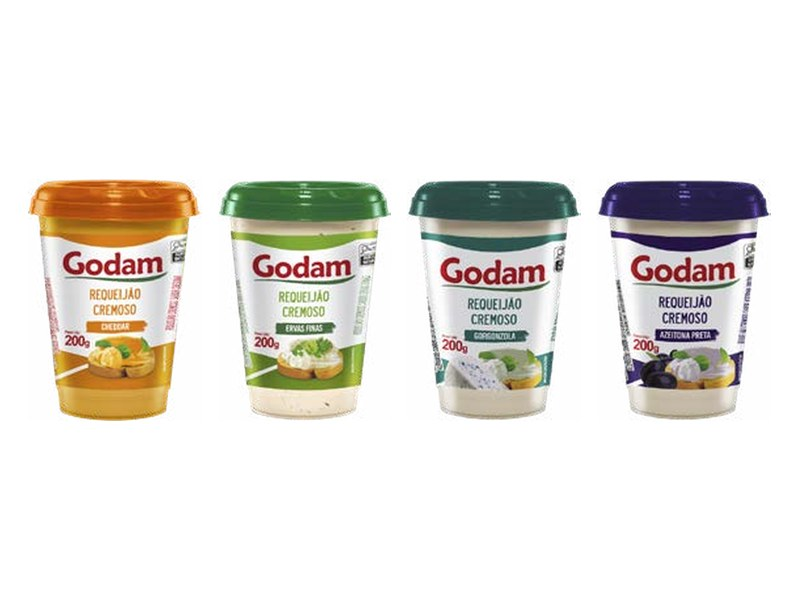
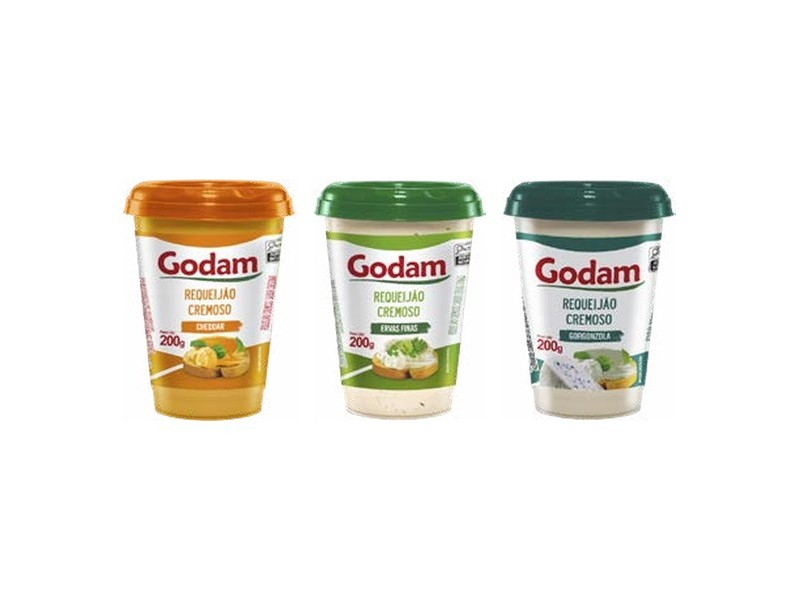
Catálogo: retira itens inativos/sem preço da tabela vigente (Req. Azeitona Preta, Minas Frescal 3 kg)
Claude-Session: https://claude.ai/code/session_01Svy9eaeNDxAC9LF54Ryx8s

Changed region(s): [[0.0312, 0.3, 0.9688, 0.72]]

diff --git a/index.html b/index.html
@@ -293,7 +293,7 @@ footer .wrap{padding-block:22px;display:flex;flex-wrap:wrap;gap:8px 24px;justify
    Enquanto a foto não existir, o cartão mostra o nome do produto no lugar. */
 const LINHAS = [
   {id:"queijos", nome:"Queijos", marca:"GODAM", itens:[
-    {n:"Queijo Minas Frescal", d:"500 g, 1 kg e 3 kg", foto:"godam-minas-frescal.jpg"},
+    {n:"Queijo Minas Frescal", d:"500 g e 1 kg", foto:"godam-minas-frescal.jpg"},
     {n:"Queijo Minas Frescal em pote", d:"500 g · tradicional, Light e Light ZEROLAC", foto:"godam-minas-frescal-pote.jpg"},
     {n:"Queijo Minas Padrão", d:"200 g, 350 g, 400 g e 450 g · também ZEROLAC Light", foto:"godam-minas-padrao.jpg"},
     {n:"Queijo Prato", d:"Peça de 400 g", foto:"godam-prato.jpg"},
@@ -303,7 +303,7 @@ const LINHAS = [
   {id:"requeijao", nome:"Requeijão", marca:"GODAM", itens:[
     {n:"Requeijão Cremoso", d:"200 g e 410 g · tradicional e Light", foto:"godam-requeijao.jpg"},
     {n:"Requeijão Cremoso ZEROLAC", d:"Light 200 g", foto:"godam-requeijao-zerolac.jpg"},
-    {n:"Requeijão com sabores", d:"Cheddar, Ervas Finas, Gorgonzola e Azeitona Preta · 200 g", foto:"godam-requeijao-sabores.jpg"},
+    {n:"Requeijão com sabores", d:"Cheddar, Ervas Finas e Gorgonzola · 200 g", foto:"godam-requeijao-sabores.jpg"},
     {n:"DICAMPI", d:"Mistura de requeijão 200 g, 410 g e 1,8 kg", foto:"dicampi.jpg"}
   ]},
   {id:"manteiga-ricota", nome:"Manteiga e ricota", marca:"GODAM", itens:[
